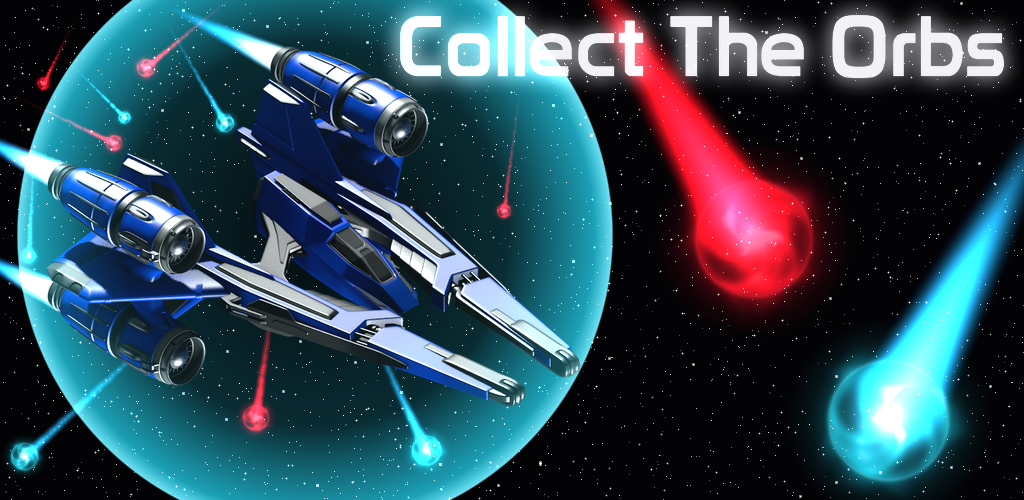
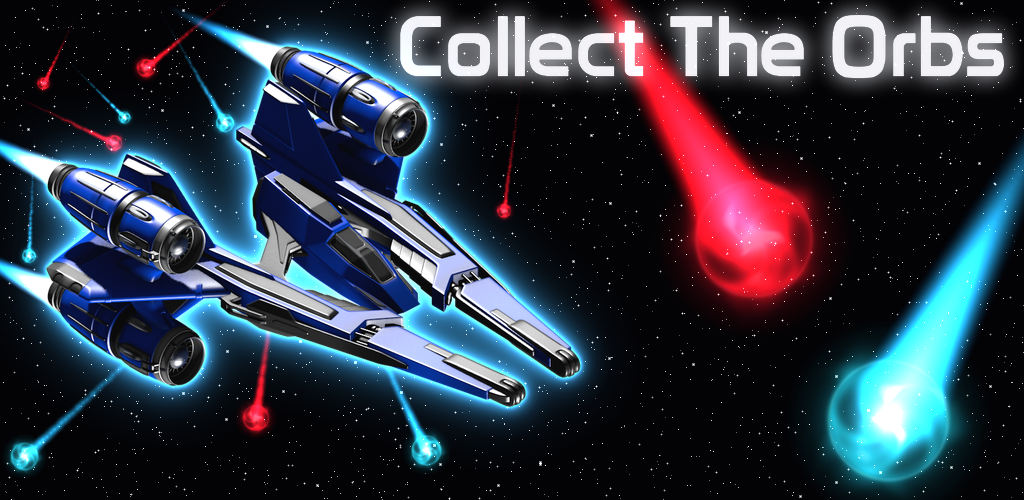
Store art: blue neon glow hugging the ship outline instead of a round shield

diff --git a/tools/art/store.py b/tools/art/store.py
@@ -179,6 +179,7 @@ def scene(w, h, orbs, ship_xy, ship_scale, scale=1.0, seed=3, tail_mul=2.3, plum
     big_layer = Image.new('RGBA', (im.width + 2 * ship.width, im.height + 2 * ship.height), (0, 0, 0, 0))
     big_layer.alpha_composite(ship, (int(ox) + ship.width, int(oy) + ship.height))
     layer = big_layer.crop((ship.width, ship.height, ship.width + im.width, ship.height + im.height))
+    im = outline_glow(im, layer, sc)
     im = Image.alpha_composite(im, layer)
     if shield_img is not None:
         # the field is translucent and sits in front of the ship (only over the ship, so the orbs stay clean)
@@ -188,6 +189,19 @@ def scene(w, h, orbs, ship_xy, ship_scale, scale=1.0, seed=3, tail_mul=2.3, plum
         fa[..., 3] *= np.asarray(layer, dtype=np.float32)[..., 3] / 255.0
         im = add(im, Image.fromarray(fa.astype(np.uint8)), (im.width / 2, im.height / 2))
     return im
+
+
+def outline_glow(im, ship_layer, sc):
+    """Blue neon glow hugging the ship's silhouette: a tight bright rim plus softer halos, added behind the ship."""
+    alpha = ship_layer.split()[3]
+    out = im
+    for radius, strength in ((2.5, 0.95), (7, 0.7), (16, 0.55), (34, 0.35)):
+        blur = alpha.filter(ImageFilter.GaussianBlur(radius * max(0.6, sc / 0.65)))
+        a = np.asarray(blur, dtype=np.float32) / 255.0 * strength
+        a = np.clip(a * 1.6, 0, 1)
+        rgba = np.dstack([np.full(a.shape, 70), np.full(a.shape, 185), np.full(a.shape, 255), a * 255]).astype(np.uint8)
+        out = add(out, Image.fromarray(rgba), (im.width / 2, im.height / 2))
+    return out
 
 
 def _fade(layer, f):
@@ -219,11 +233,11 @@ def composition(size=512):
 
 
 def scene_icon(size=512):
-    return scene(size, size, ICON_ORBS, (-82, 130), 0.69, size / 512.0, plume=210, shield=((205, 355), 500))
+    return scene(size, size, ICON_ORBS, (-82, 130), 0.69, size / 512.0, plume=210, shield=None)
 
 
 def feature(w=1024, h=500):
-    im = scene(w, h, BANNER_ORBS, (29, 23), 0.65, 1.0, seed=9, shield=((315, 235), 620))
+    im = scene(w, h, BANNER_ORBS, (29, 23), 0.65, 1.0, seed=9, shield=None)
     N.set_scale(2)
     f = UI.BMFont('fonts/prototype128blueWhite')
     size = 40 * 610 / f.width('Collect The Orbs', 40)
